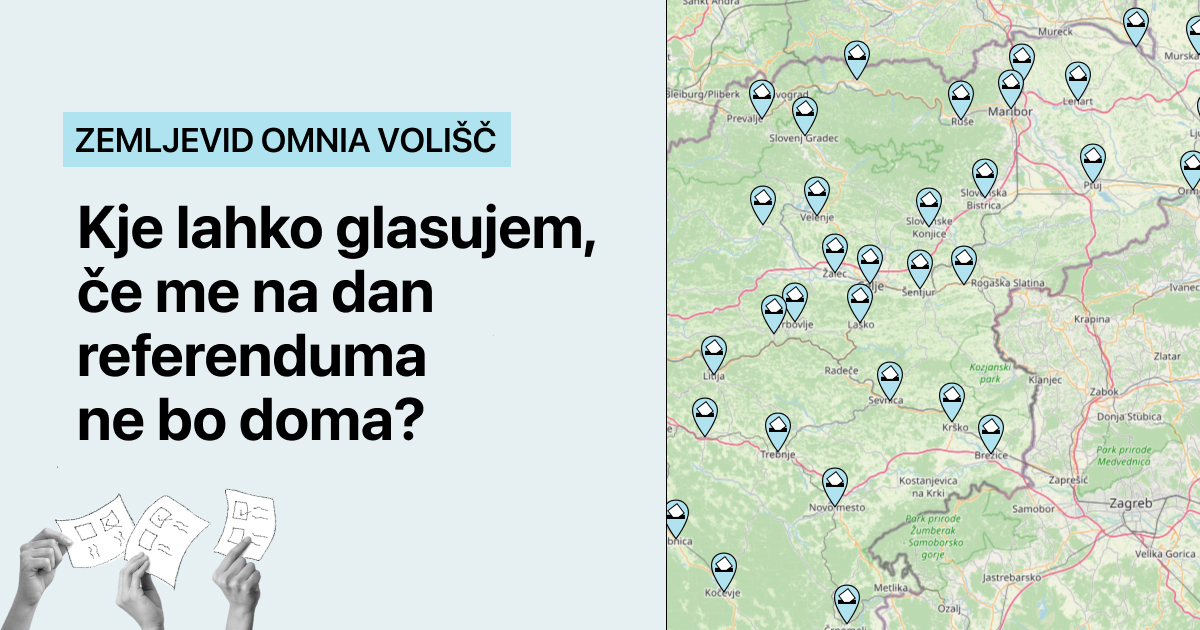
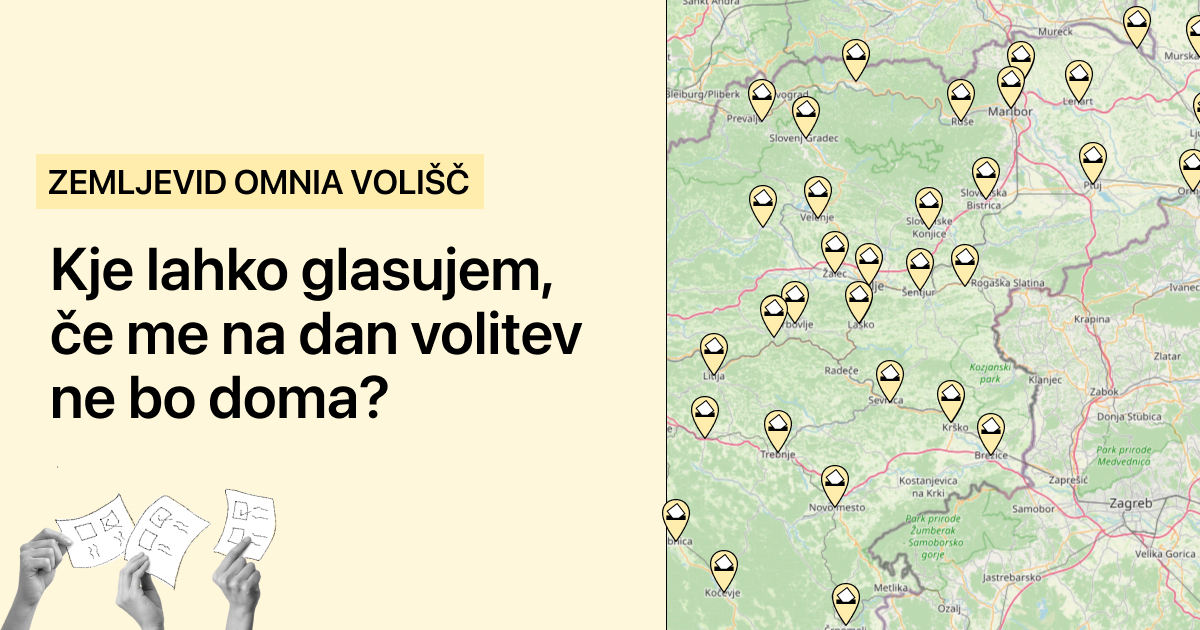
update colors and images and stuff

diff --git a/styles/main.0c301494.css b/styles/main.0c301494.css
@@ -9,7 +9,7 @@
 /*
 barvna shema
 obrobe #587278
-svetlejša #e6f0f3
+svetlejša #FFF7DB
 temnejša #afe3ef
 kontrastna #3f5155
 */
@@ -8052,7 +8052,7 @@ button.close {
     background-image: linear-gradient(to left, #6ba8a0 0, #6ba8a0 14.28571429%, #6a1b9a 14.28571429%, #6a1b9a 28.57142857%, #2196f3 28.57142857%, #2196f3 42.85714286%, #8bc34a 42.85714286%, #8bc34a 57.14285714%, #ffeb3b 57.14285714%, #ffeb3b 71.42857143%, #ffb74d 71.42857143%, #ffb74d 85.71428571%, #ef5350 85.71428571%, #ef5350 100%);
     background-image: -webkit-linear-gradient(to left, #6ba8a0 0, #6ba8a0 14.28571429%, #6a1b9a 14.28571429%, #6a1b9a 28.57142857%, #2196f3 28.57142857%, #2196f3 42.85714286%, #8bc34a 42.85714286%, #8bc34a 57.14285714%, #ffeb3b 57.14285714%, #ffeb3b 71.42857143%, #ffb74d 71.42857143%, #ffb74d 85.71428571%, #ef5350 85.71428571%, #ef5350 100%);
     background-image: -ms-linear-gradient(to left, #6ba8a0 0, #6ba8a0 14.28571429%, #6a1b9a 14.28571429%, #6a1b9a 28.57142857%, #2196f3 28.57142857%, #2196f3 42.85714286%, #8bc34a 42.85714286%, #8bc34a 57.14285714%, #ffeb3b 57.14285714%, #ffeb3b 71.42857143%, #ffb74d 71.42857143%, #ffb74d 85.71428571%, #ef5350 85.71428571%, #ef5350 100%) */
-    background-color: #e6f0f3;
+    background-color: #FFF7DB;
 }
 
 #themap {
@@ -8277,7 +8277,7 @@ button.close {
     line-height: 32px;
     font-weight: 600;
     color: #333;
-    background-color: #bae2ed;
+    background-color: #FFEDAD;
     border: 0;
     box-shadow: 0 0 0 1px #333;
     cursor: pointer;
